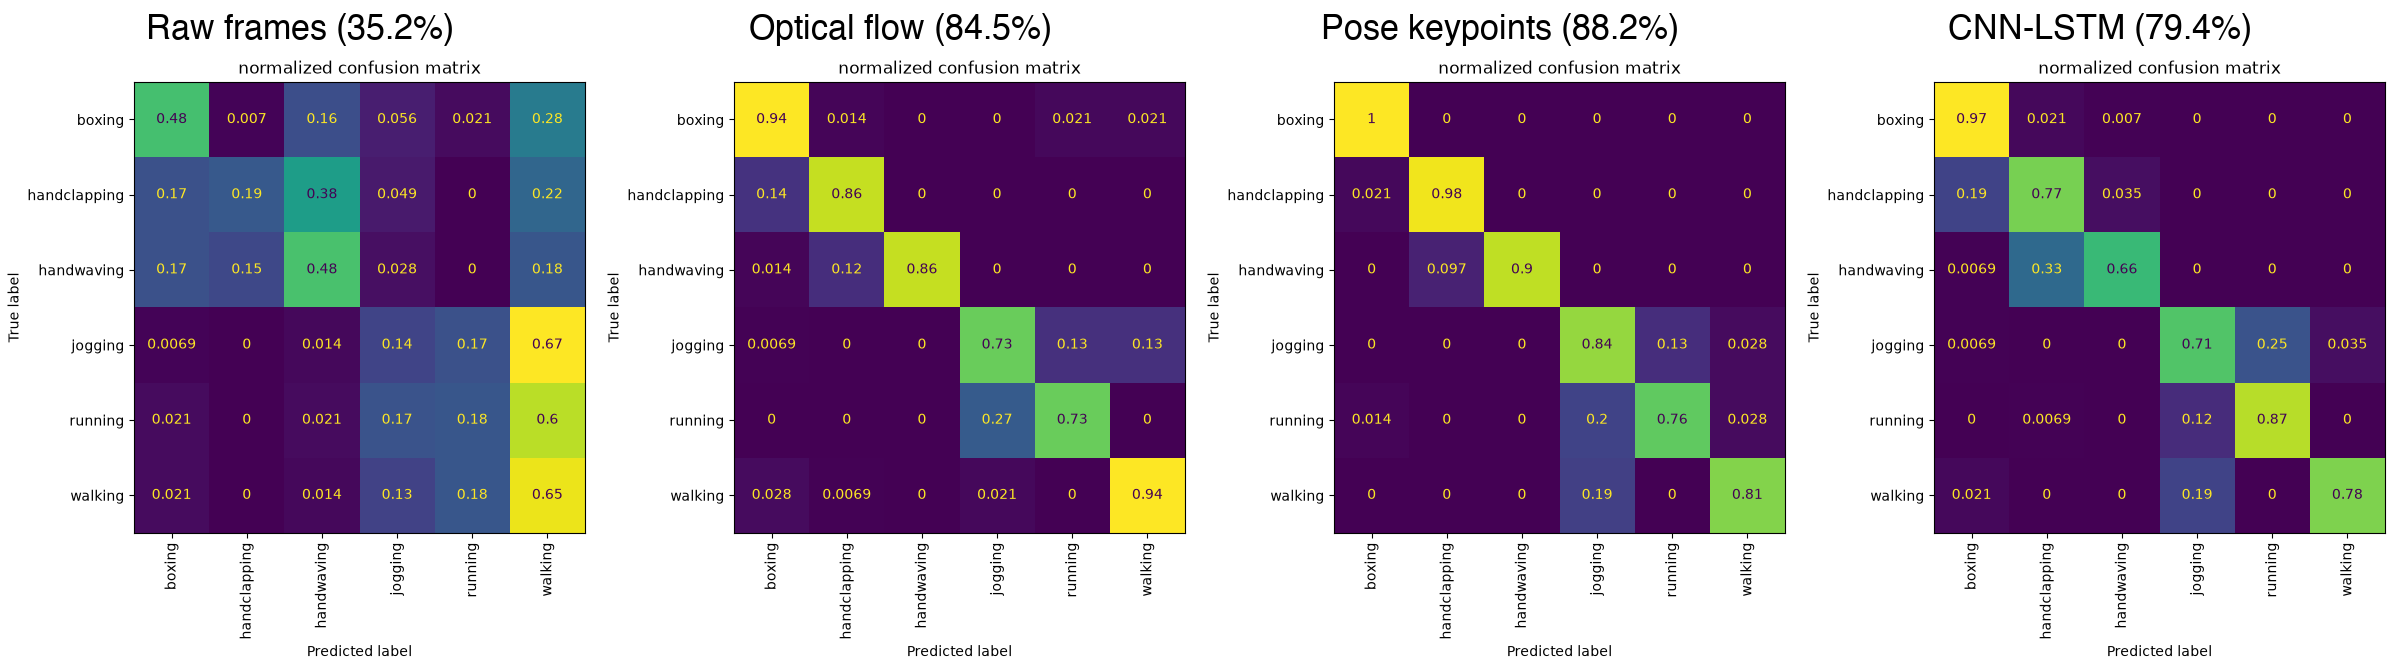
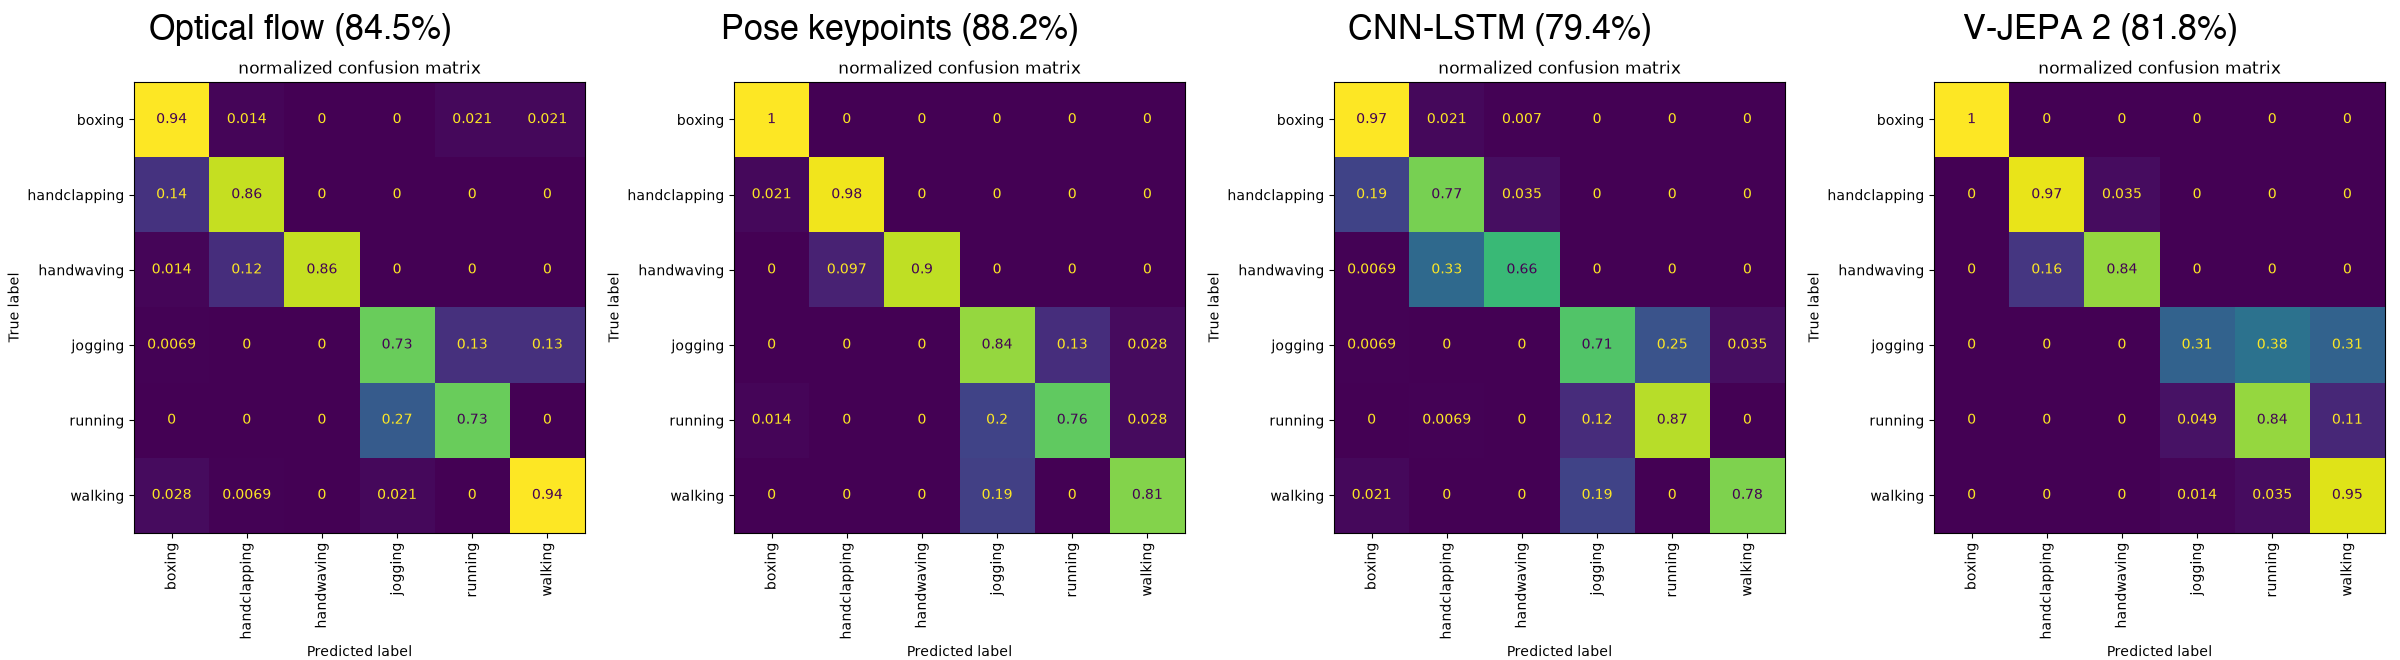
README: add V-JEPA 2 confusion matrices, drop raw frames from the figures

diff --git a/README.md b/README.md
@@ -97,9 +97,9 @@ The same test frame, as seen by each classical pipeline: the raw frame shrunk to
 
 Times are wall-clock with the periods the laptop was asleep removed, so they are approximate. The pose-keypoint MLPs shared the CPU with the CNN-LSTM, so both are slightly slower than they would be alone.
 
-**Where each approach goes wrong**: normalized confusion matrices of each approach's best model on the test set (rows: true action, columns: predicted). Optical flow and pose both send many TennisSwing videos to CricketShot; the CNN-LSTM, which sees the court, almost never does.
+**Where each approach goes wrong**: normalized confusion matrices of each approach's best model on the test set (rows: true action, columns: predicted). Optical flow and pose both send many TennisSwing videos to CricketShot; the CNN-LSTM, which sees the court, almost never does, and V-JEPA 2 makes a single mistake on all 224 test videos (one CricketShot taken for Punch). Raw frames are left out for readability.
 
-![UCF101 confusion matrices for the four approaches](figures/ucf101_confusion.png)
+![UCF101 confusion matrices for optical flow, pose, CNN-LSTM and V-JEPA 2](figures/ucf101_confusion.png)
 
 ### KTH (rerun vs. course project)
 
@@ -132,9 +132,9 @@ Times are wall-clock with the periods the laptop was asleep removed, so they are
 
 The pose-keypoint MLPs ran partly while the laptop slept, so their times are estimates. The raw-frame baseline peaked at 14.4 GB of memory and the CNN-LSTM at 15.6 GB.
 
-**Where each approach goes wrong** (normalized confusion matrices, best model per approach). Optical flow, pose and the CNN-LSTM all mix up jogging and running; the CNN-LSTM also confuses hand waving with hand clapping, which pose separates well. Raw frames send most leg actions to walking.
+**Where each approach goes wrong** (normalized confusion matrices, best model per approach). Every approach mixes up jogging and running. The CNN-LSTM also confuses hand waving with hand clapping, which pose separates well. V-JEPA 2 is near-perfect on the arm actions but gets only 31% of jogging videos right, splitting the rest between running and walking. Raw frames are left out for readability.
 
-![KTH confusion matrices for the four approaches](figures/kth_confusion.png)
+![KTH confusion matrices for optical flow, pose, CNN-LSTM and V-JEPA 2](figures/kth_confusion.png)
 
 ### 🧠 A video foundation model with few labels
 
